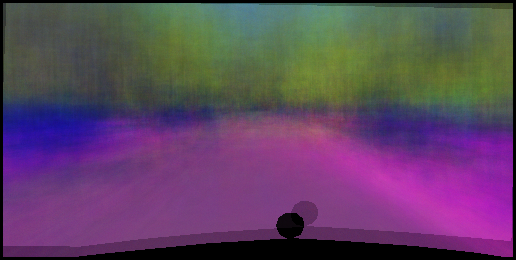
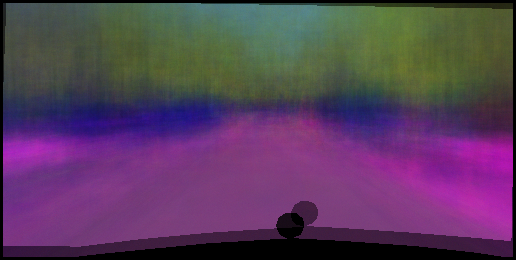
.

Changed region(s): [[0.0, 0.0923, 1.0, 1.0], [0.4031, 0.0, 1.0, 0.7077]]

diff --git a/generate_map.py b/generate_map.py
@@ -39,7 +39,7 @@ def generate_encoding(avg):
 
 def post_processing(img_name, out_name):
     img = cv2.imread(img_name)
-    blur = cv2.medianBlur(img, 5)
+    blur = cv2.medianBlur(img, 9)
     kernel = np.array([[0,-1,0], [-1,5,-1], [0,-1,0]])
     sharp = cv2.filter2D(blur, -1, kernel)
     cv2.imwrite(out_name, blur)
